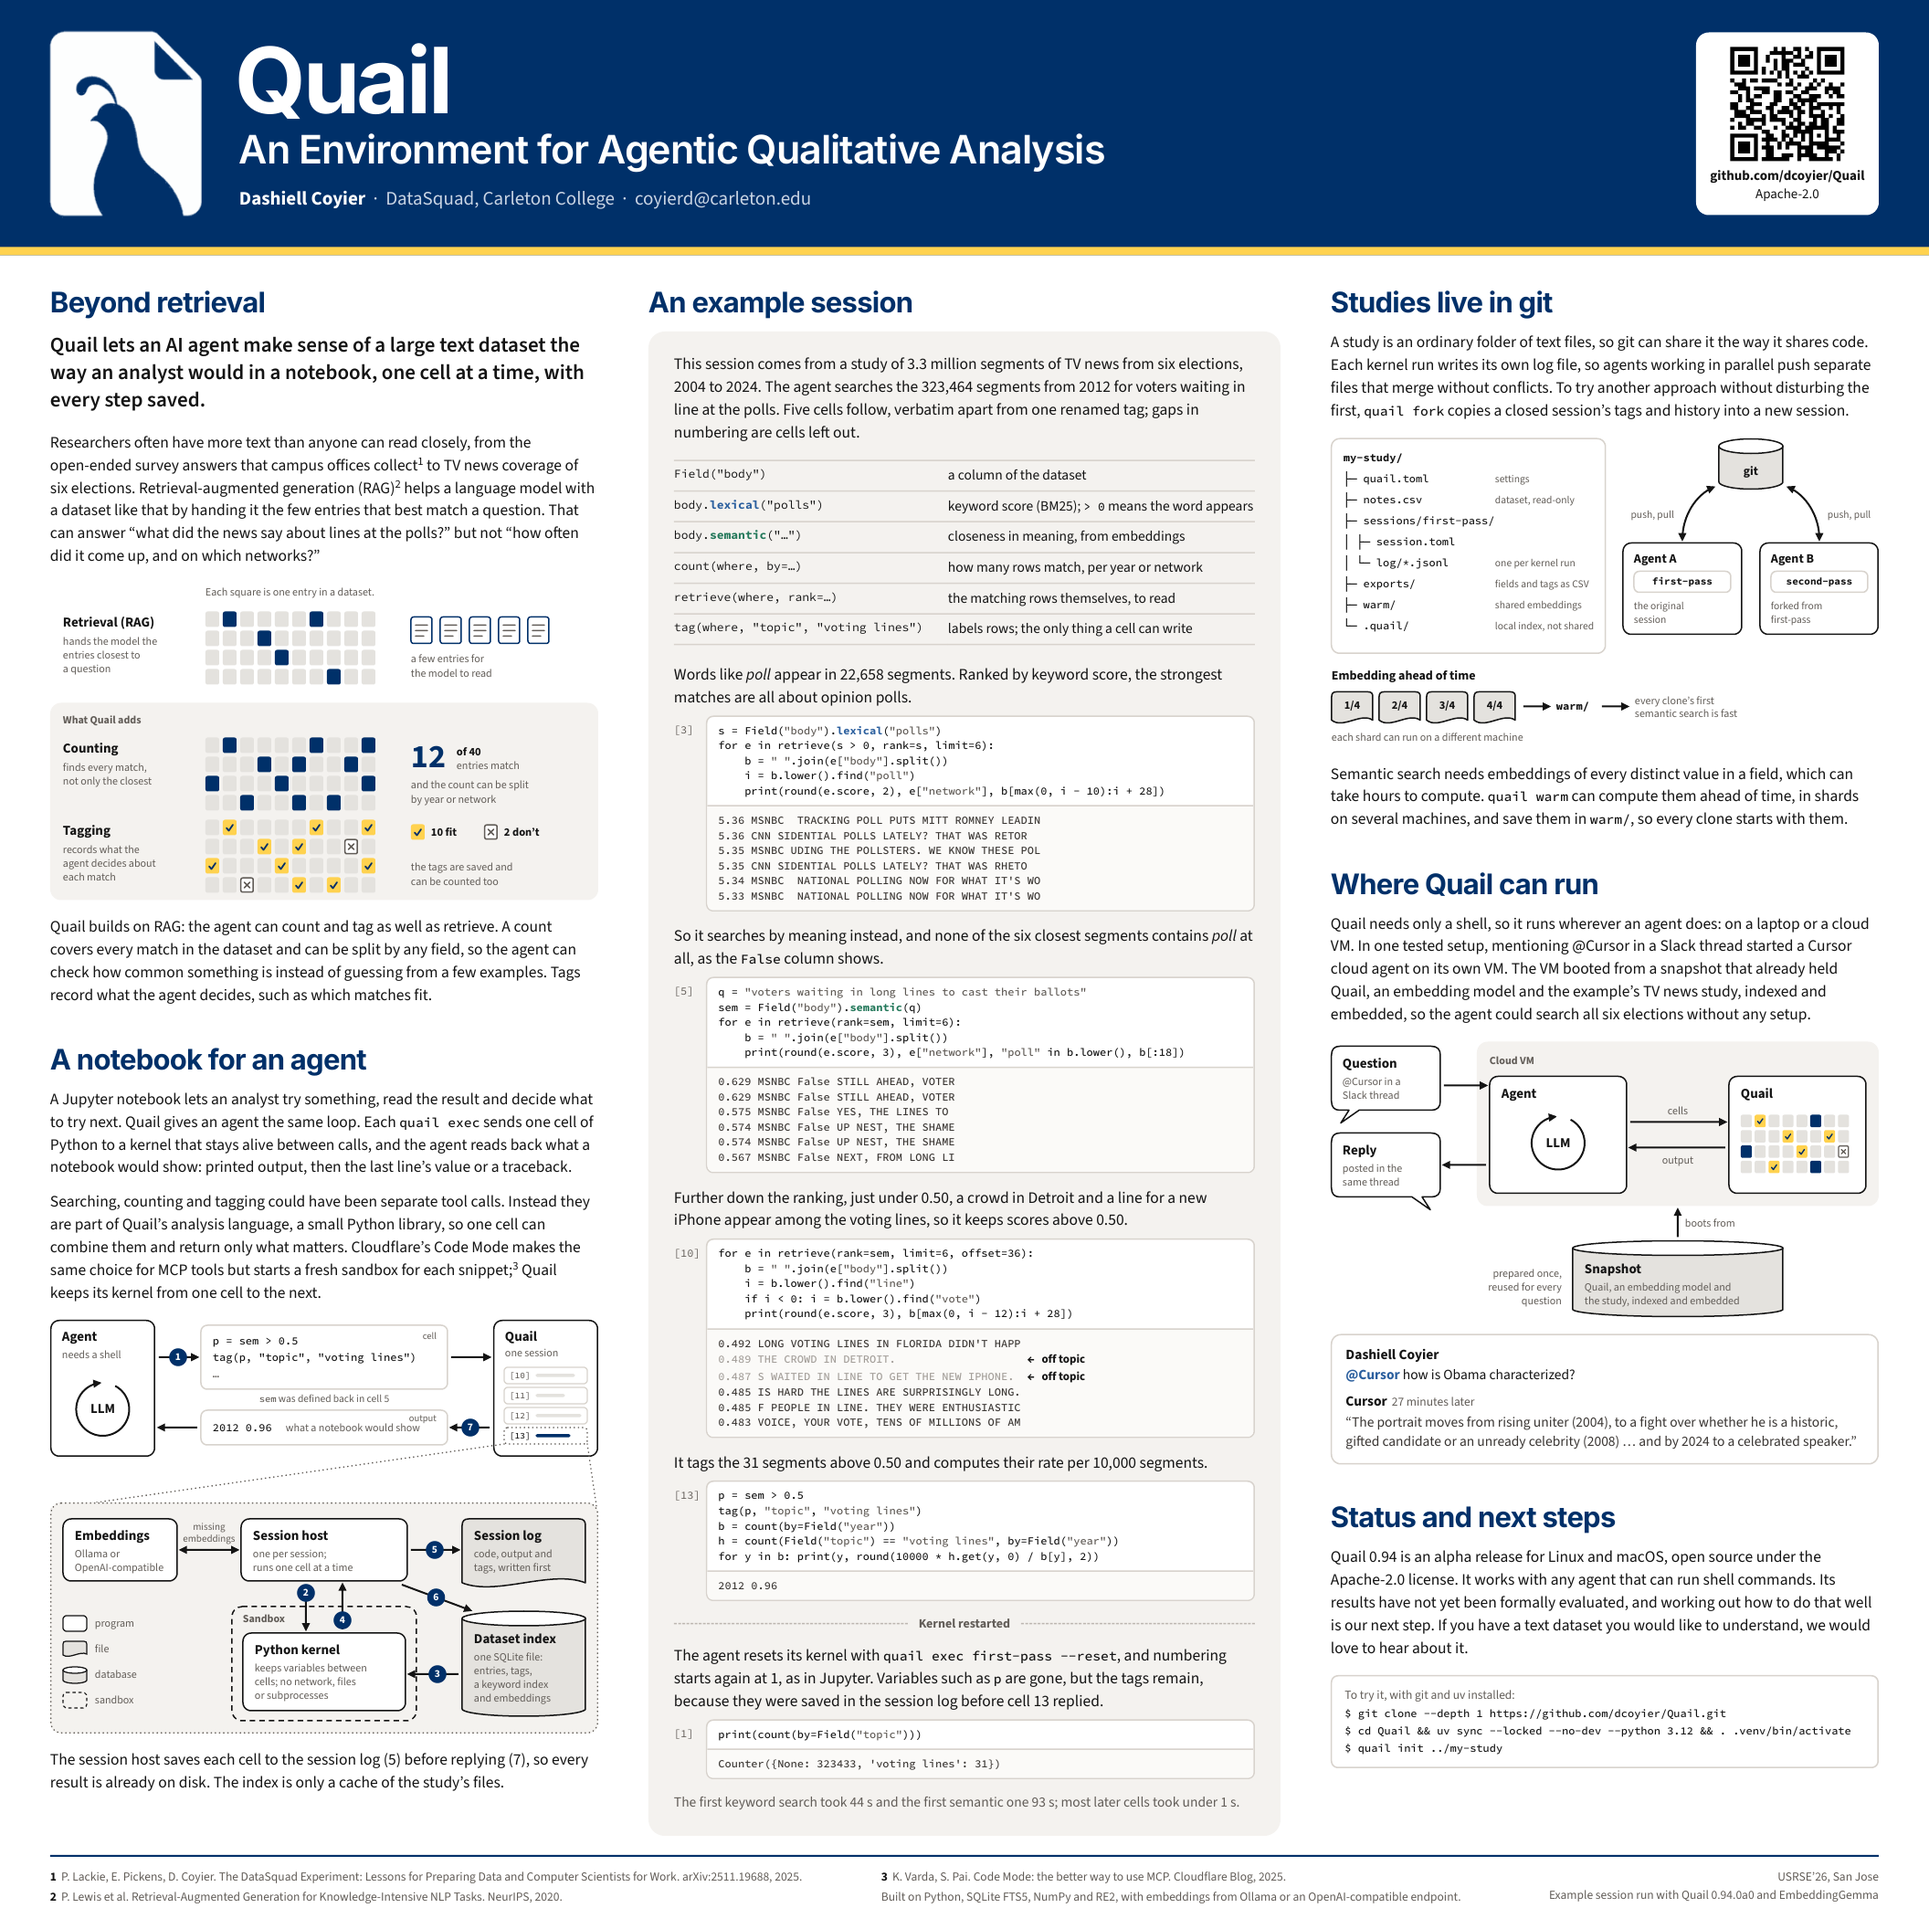
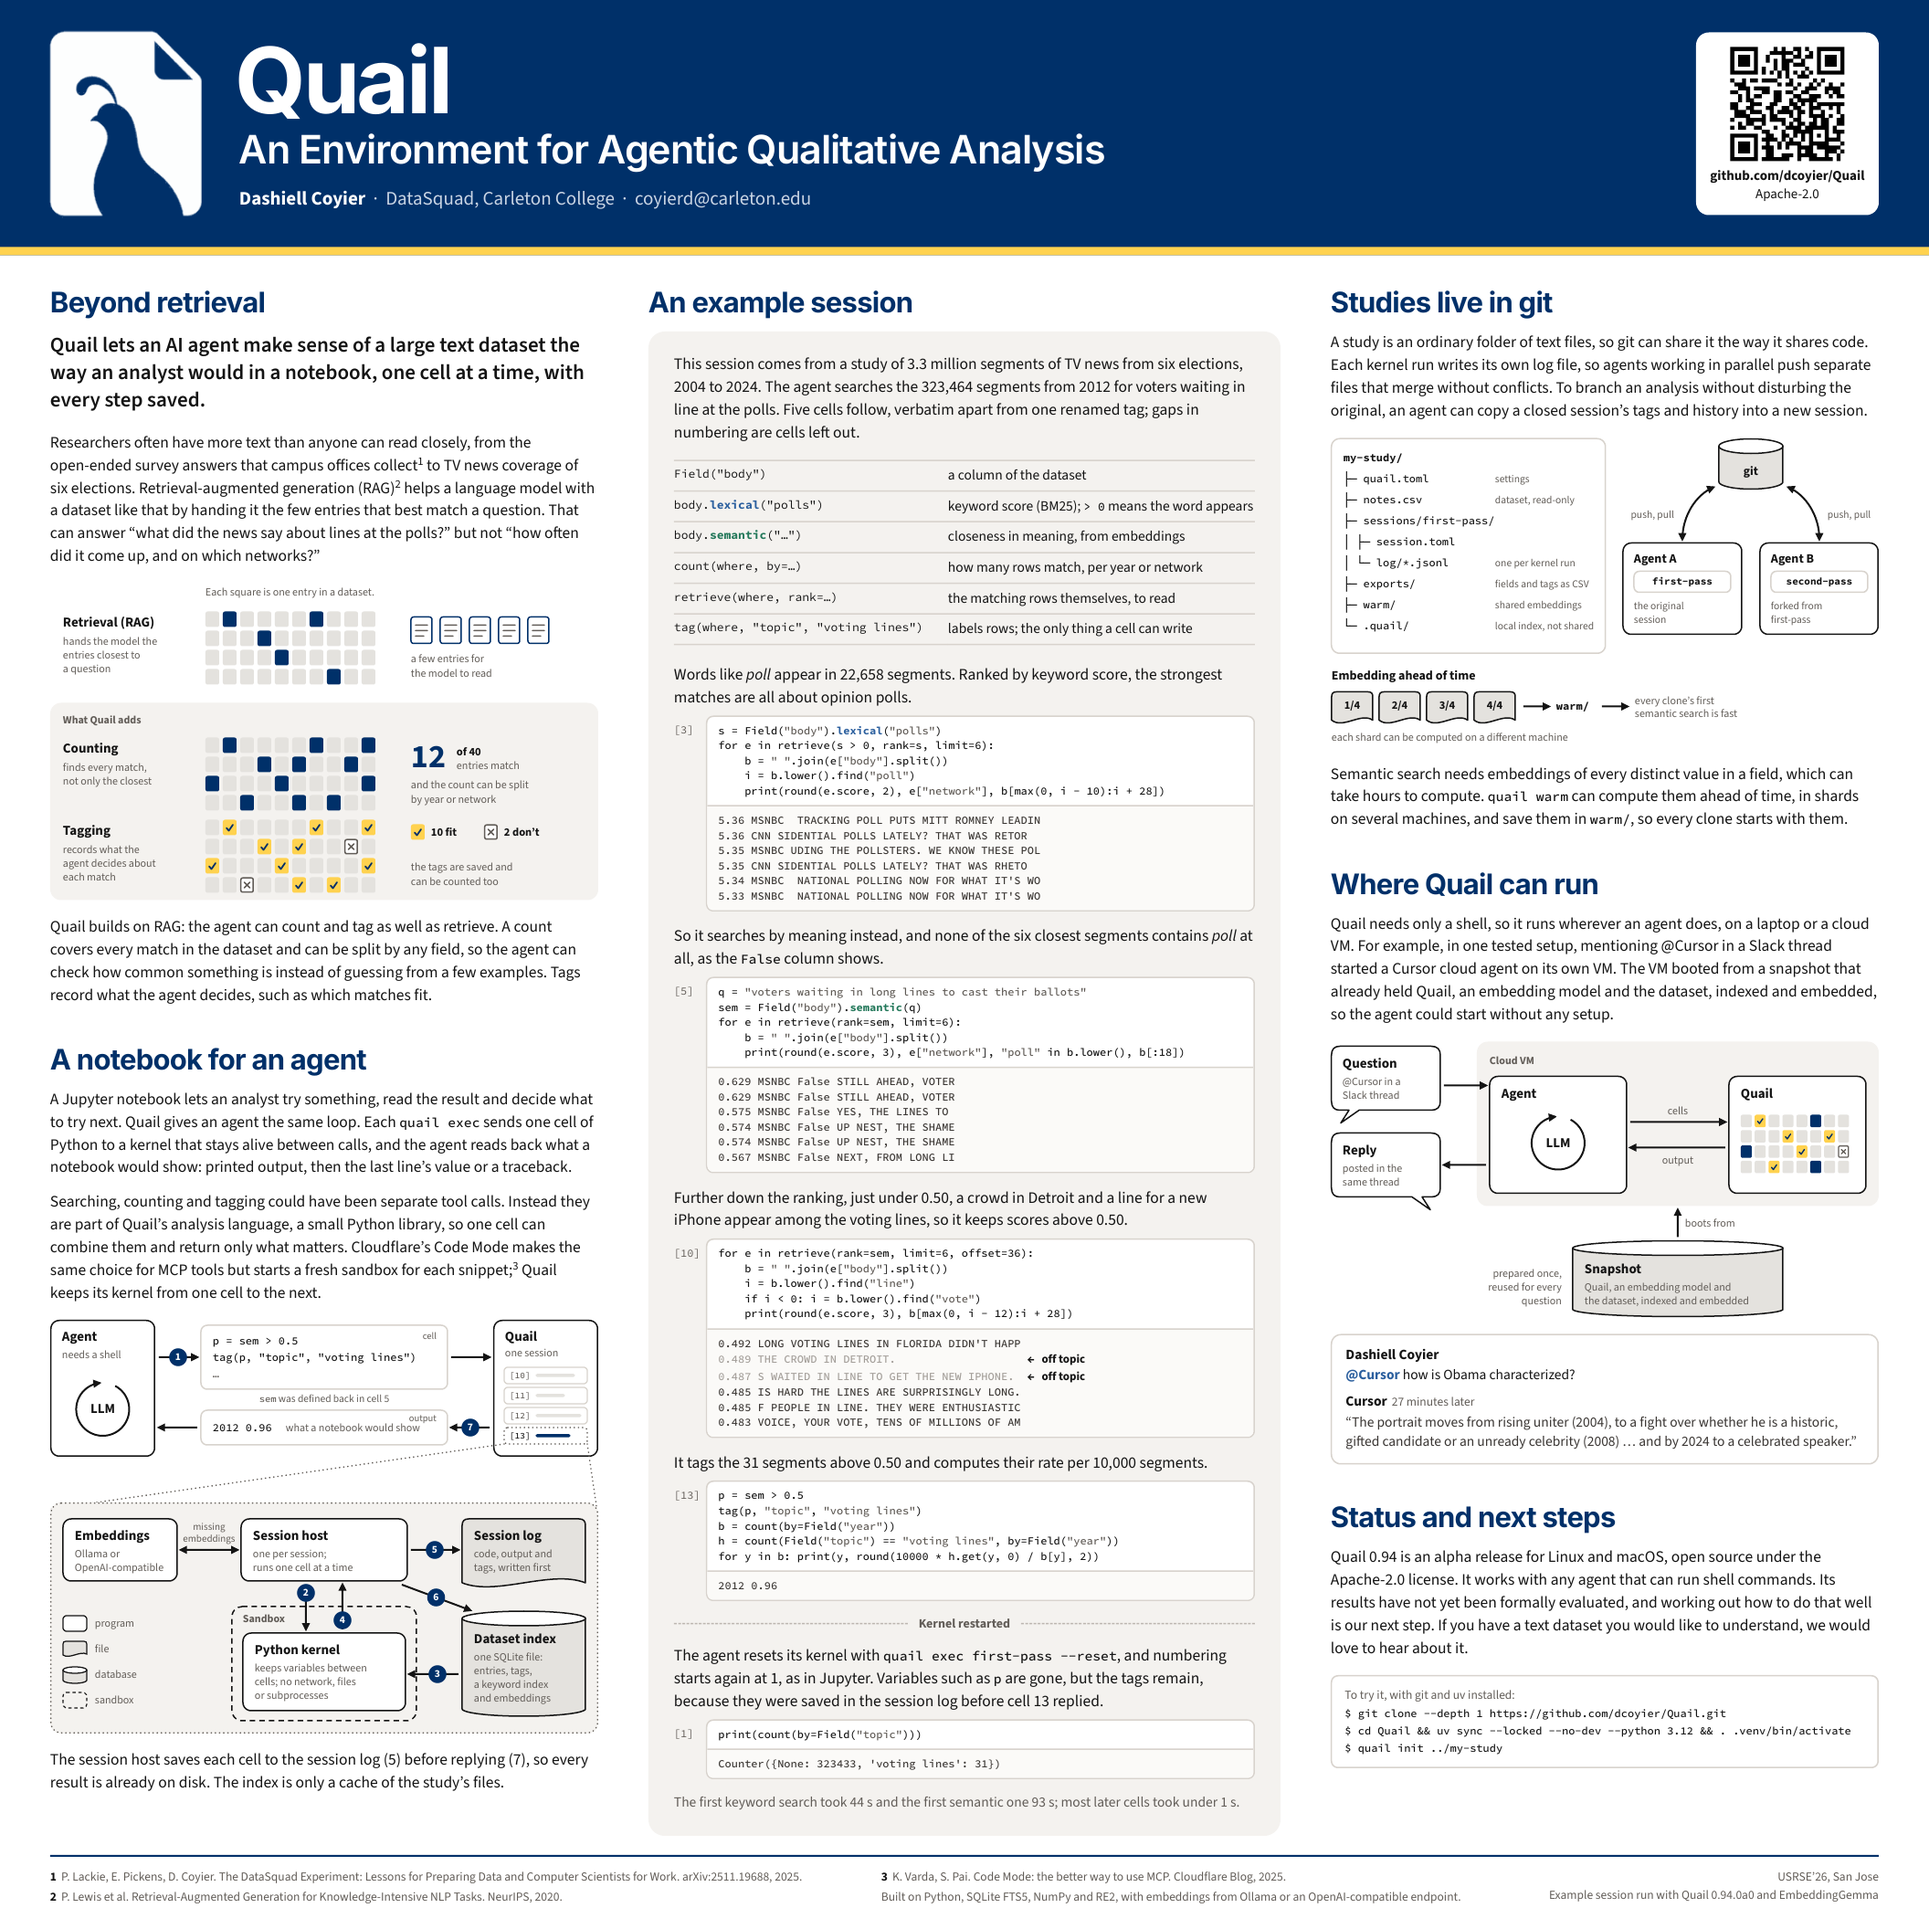
Tighten the wording of the studies and deploy sections
- Forking is described as branching an analysis, without naming the
  quail fork command.
- "Where Quail can run" leads into the Slack setup with "For example",
  and the snapshot holds "the dataset, indexed and embedded", so the
  agent "could start without any setup"; the deploy figure and its alt
  text say the dataset too.
- The shard caption says each shard can be computed on a different
  machine.

Claude-Session: https://claude.ai/code/session_01ChZ8DmmKvsKSV4JFVieZLU

Changed region(s): [[0.6875, 0.4688, 0.9688, 0.5312], [0.8125, 0.1875, 0.9688, 0.2188], [0.75, 0.1875, 0.7812, 0.2188]]

diff --git a/poster/poster.html b/poster/poster.html
@@ -124,15 +124,15 @@ for y in b: print(y, round(10000 * h.get(y, 0) / b[y], 2))</pre><pre class="out"
 
 <section id="study">
   <h2>Studies live in git</h2>
-  <p>A study is an ordinary folder of text files, so git can share it the way it shares code. Each kernel run writes its own log file, so agents working in parallel push separate files that merge without conflicts. To try another approach without disturbing the first, <code>quail fork</code> copies a closed session&rsquo;s tags and history into a new session.</p>
+  <p>A study is an ordinary folder of text files, so git can share it the way it shares code. Each kernel run writes its own log file, so agents working in parallel push separate files that merge without conflicts. To branch an analysis without disturbing the original, an agent can copy a closed session&rsquo;s tags and history into a new session.</p>
   <figure><img src="figures/study.svg" alt="A study folder holding quail.toml, the notes.csv dataset, a session with one log per kernel run, exports/, warm/ and a local .quail/ index, next to two agents sharing it through git: one works in session first-pass, the other in second-pass, forked from it. Below, embeddings computed in four shards are saved to warm/, so every clone&rsquo;s first semantic search is fast"></figure>
   <p>Semantic search needs embeddings of every distinct value in a field, which can take hours to compute. <code>quail warm</code> can compute them ahead of time, in shards on several machines, and save them in <code>warm/</code>, so every clone starts with them.</p>
 </section>
 
 <section id="where">
   <h2>Where Quail can run</h2>
-  <p>Quail needs only a shell, so it runs wherever an agent does: on a laptop or a cloud VM. In one tested setup, mentioning @Cursor in a Slack thread started a Cursor cloud agent on its own VM. The VM booted from a snapshot that already held Quail, an embedding model and the example&rsquo;s TV news study, indexed and embedded, so the agent could search all six elections without any setup.</p>
-  <figure><img src="figures/deploy.svg" alt="A question in Slack starts a cloud VM that boots from a snapshot holding Quail, an embedding model and the study, indexed and embedded; on the VM the agent sends cells to Quail, reads their output and posts its reply in the same thread"></figure>
+  <p>Quail needs only a shell, so it runs wherever an agent does, on a laptop or a cloud VM. For example, in one tested setup, mentioning @Cursor in a Slack thread started a Cursor cloud agent on its own VM. The VM booted from a snapshot that already held Quail, an embedding model and the dataset, indexed and embedded, so the agent could start without any setup.</p>
+  <figure><img src="figures/deploy.svg" alt="A question in Slack starts a cloud VM that boots from a snapshot holding Quail, an embedding model and the dataset, indexed and embedded; on the VM the agent sends cells to Quail, reads their output and posts its reply in the same thread"></figure>
   <div class="thread">
     <div><span class="who">Dashiell Coyier</span></div>
     <p class="q"><span class="mention">@Cursor</span> how is Obama characterized?</p>
